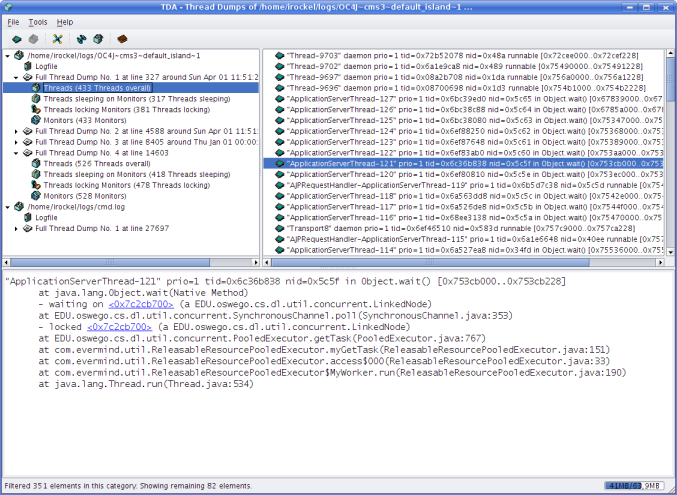
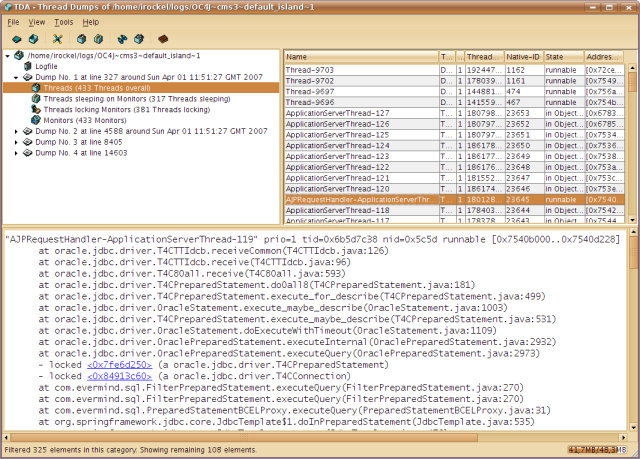
updated screenshots for 1.6 release. added screenshot for long running threads detection.

diff --git a/trunk/tda/src/java/com/pironet/tda/doc/overview.html b/trunk/tda/src/java/com/pironet/tda/doc/overview.html
@@ -178,7 +178,12 @@ versions.</p>
 <p><a name="longrunningthreads"><h3>Find long running threads</h3></a>
 A common usecase for thread dump analysis is the long running thread detection. TDA offers some help for finding these long running threads. 
 The "Find long running threads" option in the tools menu or from the popup menu in the main tree checks for long running threads in 
-marked thread dumps in the main tree. The analysis is quite simple though, it just compares the thread names and if they match
+marked thread dumps in the main tree. </p>
+
+<p><center><img src="longrunning.png" border=0>
+<br><i>Long running threads detection</i></center></p>
+
+<p>The analysis is quite simple though, it just compares the thread names and if they match
 adds the thread to the result. A regular expression can be specified for filtering just the interesting threads. Additionally the usual 
 filters are applied to the result view of the analysis to filter out uninteresting threads. For a useful result appropriate filters should
 be specified to filter out all sleeping and uninteresting threads.</p>
